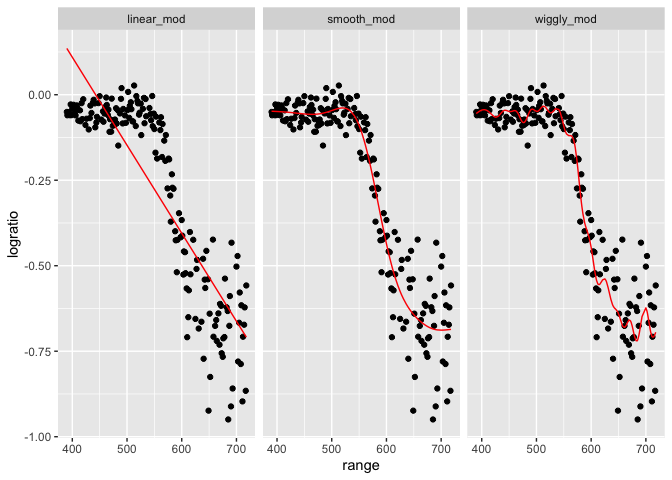
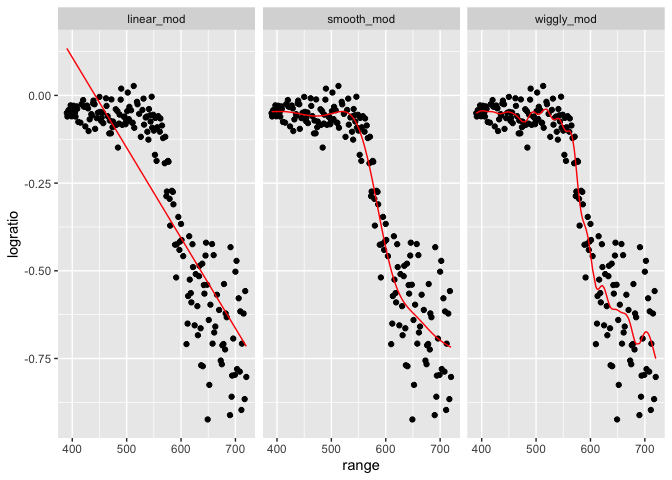
update

diff --git a/cross_validation.md b/cross_validation.md
@@ -100,19 +100,19 @@ train_df |>
 rmse(linear_mod, test_df)
 ```
 
-    ## [1] 0.1173234
+    ## [1] 0.1251753
 
 ``` r
 rmse(smooth_mod, test_df)
 ```
 
-    ## [1] 0.07874896
+    ## [1] 0.06570813
 
 ``` r
 rmse(wiggly_mod, test_df)
 ```
 
-    ## [1] 0.08948016
+    ## [1] 0.06436572
 
 now cross validation
 
@@ -136,8 +136,8 @@ cv_df |> pull(train) |> nth(3)
     ##    <dbl>    <dbl> <int>
     ##  1   390  -0.0504     1
     ##  2   391  -0.0601     2
-    ##  3   393  -0.0419     3
-    ##  4   394  -0.0510     4
+    ##  3   394  -0.0510     4
+    ##  4   396  -0.0599     5
     ##  5   397  -0.0284     6
     ##  6   399  -0.0596     7
     ##  7   400  -0.0399     8
@@ -282,11 +282,25 @@ cv_df =
   mutate(
     linear_mod  = map(train, \(df) lm(armc ~ weight, data = df)),
     pwl_mod     = map(train, \(df) lm(armc ~ weight + weight_cp7, data = df)),
-    smooth_mod  = map(train, \(df) mgcv::gam(armc ~ s(weight), data = as_tibble(df)))
+    smooth_mod  = map(train, \(df) mgcv::gam(armc ~ s(weight), data = df))
     )|> 
   mutate(
     rmse_linear = map2_dbl(linear_mod, test, rmse),
-    rmse_linear = map2_dbl(pwl_mod, test, rmse),
-    rmse_linear = map2_dbl(smooth_mod, test, rmse)
+    rmse_pwl = map2_dbl(pwl_mod, test, rmse),
+    rmse_smooth = map2_dbl(smooth_mod, test, rmse)
   )
 ```
+
+``` r
+cv_df |> 
+  select(starts_with("rmse")) |> 
+  pivot_longer(
+    everything(),
+    names_to = "model", 
+    values_to = "rmse",
+    names_prefix = "rmse_") |> 
+  ggplot(aes(x = model, y = rmse)) + 
+  geom_violin()
+```
+
+![](cross_validation_files/figure-gfm/unnamed-chunk-27-1.png)<!-- -->
